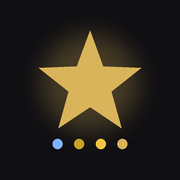
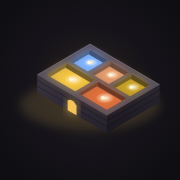
허브 아이콘을 공방 건물 블록으로 — 방 다섯이 공방 색으로 빛난다
별 + 색 점 넷(책이 빠져 있었다)에서, 첫 화면 지도와 같은 건물 모양으로. maskable 안전 원 안.

Claude-Session: https://claude.ai/code/session_01PEziFLhr3H4Gr1UuDJAJLw

diff --git a/tools/icon.py b/tools/icon.py
@@ -1,0 +1,54 @@
+# 허브 아이콘 — 지붕을 걷어낸 건물 블록, 방 다섯(지도와 같은 위 셋·아래 둘)에 공방 빛.
+# 512 정사각, 바깥 꼭짓점이 maskable 안전 원(반지름 40%) 안에 든다.
+import math
+C=[('#7fb3ff'),('#e39b6b'),('#c9a227'),('#f4c542'),('#e0703a')]
+cx,cy,a,bb,h=256,186,30,17.5,50
+U,V=6,4.4
+def P(u,v,z=0): return (cx+(u-v)*a, cy+(u+v)*bb - z)
+def pts(l): return ' '.join(f'{x:.1f},{y:.1f}' for x,y in l)
+def poly(l,**k): return '<polygon points="%s" %s/>'%(pts(l),' '.join(f'{kk.replace("_","-")}="{vv}"' for kk,vv in k.items()))
+rooms=[(0,0,2,2.2),(2,0,4,2.2),(4,0,6,2.2),(0,2.2,3,4.4),(3,2.2,6,4.4)]
+defs=['<radialGradient id="bg" cx="50%" cy="48%" r="62%"><stop offset="0" stop-color="#2a221c"/><stop offset=".55" stop-color="#16141a"/><stop offset="1" stop-color="#0f0e12"/></radialGradient>',
+ '<filter id="blur" x="-50%" y="-50%" width="200%" height="200%"><feGaussianBlur stdDeviation="14"/></filter>',
+ '<filter id="soft" x="-20%" y="-20%" width="140%" height="140%"><feGaussianBlur stdDeviation="2.2"/></filter>',
+ '<linearGradient id="wl" x1="0" y1="0" x2="0" y2="1"><stop offset="0" stop-color="#3b3542"/><stop offset="1" stop-color="#25212b"/></linearGradient>',
+ '<linearGradient id="wr" x1="0" y1="0" x2="0" y2="1"><stop offset="0" stop-color="#2b2731"/><stop offset="1" stop-color="#1a171f"/></linearGradient>']
+for i,c in enumerate(C):
+    defs.append(f'<radialGradient id="r{i}" cx="55%" cy="58%" r="70%"><stop offset="0" stop-color="#fff6dc"/><stop offset=".28" stop-color="{c}"/><stop offset="1" stop-color="{c}" stop-opacity=".55"/></radialGradient>')
+b=[]
+# 바닥 빛 웅덩이
+b.append(f'<ellipse cx="256" cy="{cy+10.4*bb*0.62:.0f}" rx="200" ry="70" fill="#d9b45a" opacity=".16" filter="url(#blur)"/>')
+# 바깥 벽 두 면
+b.append(poly([P(-.3,V+.3,h),P(U+.3,V+.3,h),P(U+.3,V+.3,0),P(-.3,V+.3,0)],fill='url(#wl)'))
+b.append(poly([P(U+.3,-.3,h),P(U+.3,V+.3,h),P(U+.3,V+.3,0),P(U+.3,-.3,0)],fill='url(#wr)'))
+# 돌 줄눈 — 앞 왼쪽 면에 가로 두 줄
+for z in (h*.36,h*.7):
+    b.append(f'<polyline points="{pts([P(-.3,V+.3,z),P(U+.3,V+.3,z)])}" stroke="#00000055" stroke-width="2" fill="none"/>')
+    b.append(f'<polyline points="{pts([P(U+.3,V+.3,z),P(U+.3,-.3,z)])}" stroke="#00000055" stroke-width="2" fill="none"/>')
+# 입구 — 앞면 가운데 아치(지도의 계단 입구)
+ux=3.0; dw=.42
+bl,br=P(ux-dw,V+.3,0),P(ux+dw,V+.3,0); tl,tr=P(ux-dw,V+.3,h*.55),P(ux+dw,V+.3,h*.55)
+b.append(f'<path d="M{bl[0]:.1f} {bl[1]:.1f} L{tl[0]:.1f} {tl[1]:.1f} Q{(tl[0]+tr[0])/2:.1f} {(tl[1]+tr[1])/2-16:.1f} {tr[0]:.1f} {tr[1]:.1f} L{br[0]:.1f} {br[1]:.1f} Z" fill="#f4c25a"/>')
+b.append(f'<path d="M{bl[0]:.1f} {bl[1]:.1f} L{tl[0]:.1f} {tl[1]:.1f} Q{(tl[0]+tr[0])/2:.1f} {(tl[1]+tr[1])/2-16:.1f} {tr[0]:.1f} {tr[1]:.1f} L{br[0]:.1f} {br[1]:.1f} Z" fill="#f4c25a" filter="url(#blur)" opacity=".7"/>')
+# 벽 윗면(지붕 없는 테두리) — 방 사이는 이 면이 칸막이로 보인다
+b.append(poly([P(-.3,-.3,h),P(U+.3,-.3,h),P(U+.3,V+.3,h),P(-.3,V+.3,h)],fill='#57505e'))
+b.append(f'<polyline points="{pts([P(-.3,V+.3,h),P(-.3,-.3,h),P(U+.3,-.3,h)])}" stroke="#7a7282" stroke-width="2" fill="none"/>')
+# 방 — 빛 번짐 + 바닥 + 안쪽 벽 그늘
+g=.17
+for i,(u0,v0,u1,v1) in enumerate(rooms):
+    q=[P(u0+g,v0+g,h),P(u1-g,v0+g,h),P(u1-g,v1-g,h),P(u0+g,v1-g,h)]
+    b.append(poly(q,fill=C[i],opacity='.55',filter='url(#blur)'))
+for i,(u0,v0,u1,v1) in enumerate(rooms):
+    q=[P(u0+g,v0+g,h),P(u1-g,v0+g,h),P(u1-g,v1-g,h),P(u0+g,v1-g,h)]
+    b.append(poly(q,fill=f'url(#r{i})'))
+    d=.42   # 뒤쪽 두 벽의 안쪽 면 — 방이 움푹 들어가 보이게
+    b.append(poly([P(u0+g,v0+g,h),P(u1-g,v0+g,h),P(u1-g,v0+g+d,h),P(u0+g+d*.7,v0+g+d,h)],fill='#120f16',opacity='.55'))
+    b.append(poly([P(u0+g,v0+g,h),P(u0+g+d*.7,v0+g+d,h),P(u0+g+d*.7,v1-g,h),P(u0+g,v1-g,h)],fill='#120f16',opacity='.4'))
+    # 방 가운데 작은 불씨
+    m=P((u0+u1)/2+.15,(v0+v1)/2+.15,h)
+    b.append(f'<circle cx="{m[0]:.1f}" cy="{m[1]:.1f}" r="5" fill="#fff8e6" opacity=".85" filter="url(#soft)"/>')
+svg=f'<svg xmlns="http://www.w3.org/2000/svg" viewBox="0 0 512 512" width="512" height="512"><defs>{"".join(defs)}</defs><rect width="512" height="512" fill="url(#bg)"/>{"".join(b)}</svg>'
+open('icon.svg','w').write(svg)   # 브라우저로 512·192·180 PNG 를 찍는다(png 로 굽는 도구는 저장소에 두지 않는다)
+# 안전 원 확인
+corners=[P(-.3,-.3,h),P(U+.3,-.3,h),P(U+.3,V+.3,0),P(-.3,V+.3,0),P(-.3,V+.3,h),P(U+.3,-.3,0)]
+print('최대 거리', max(math.hypot(x-256,y-256) for x,y in corners), '/ 안전 204.8')
